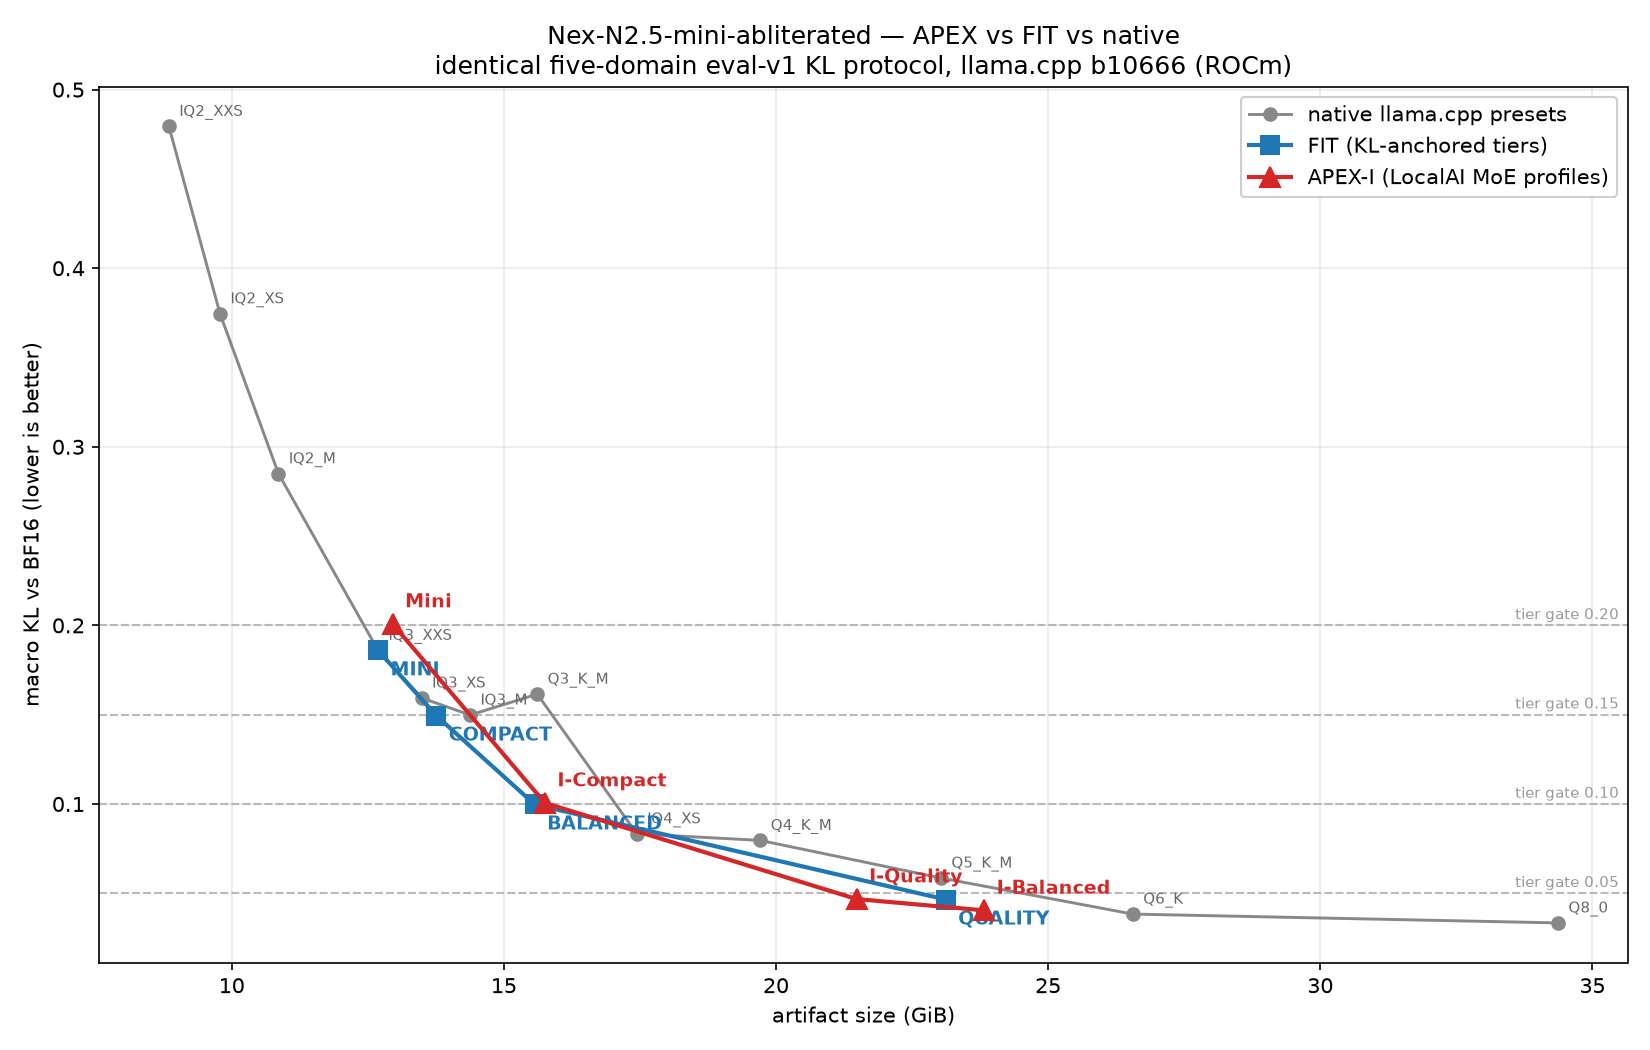
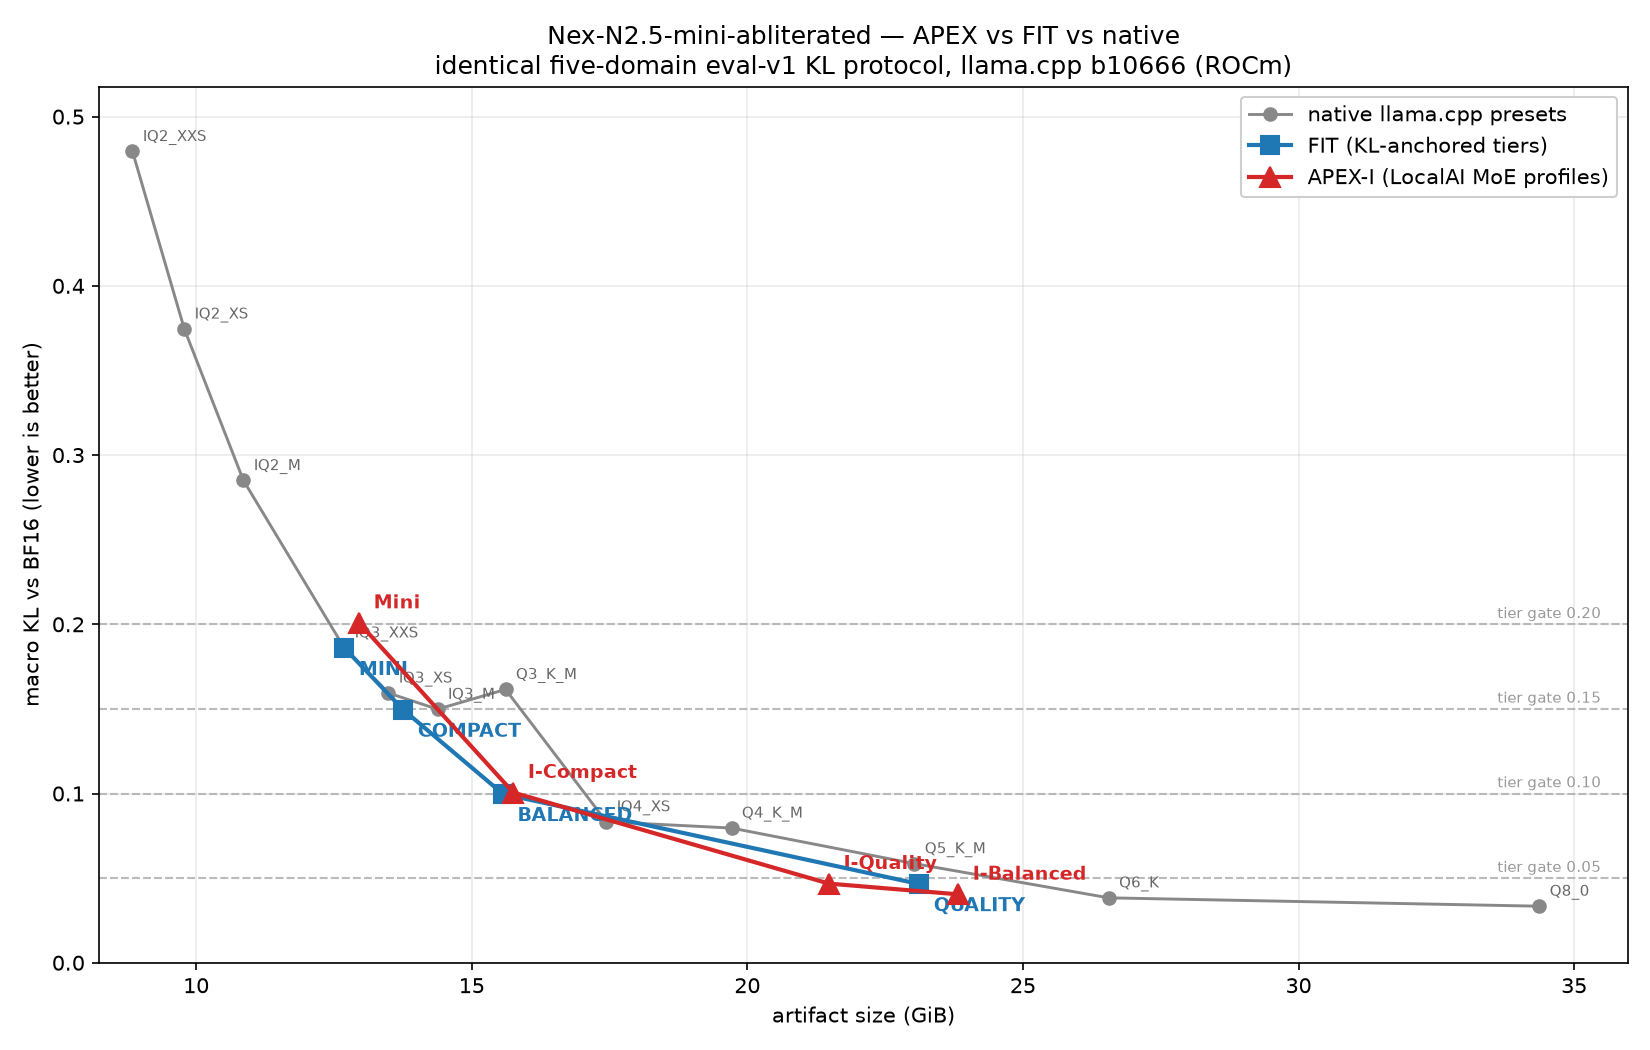
fix(chart): y-axis headroom and label offsets so APEX I-Balanced is not clipped
The lowest point (I-Balanced, macro KL 0.0404) sat on the plot edge and the
13-16 GiB labels collided. Axis limits now carry headroom on both axes and the
FIT/APEX labels are offset in opposite directions.

diff --git a/scripts/plot_apex_vs_fit.py b/scripts/plot_apex_vs_fit.py
@@ -69,7 +69,7 @@ def main() -> None:
             color="#1f77b4", ms=9, lw=2, label="FIT (KL-anchored tiers)", zorder=4)
     for x, y, name in fit:
         tier = name.split("FIT-")[1].split("-")[0]
-        ax.annotate(tier, (x, y), textcoords="offset points", xytext=(6, -12),
+        ax.annotate(tier, (x, y), textcoords="offset points", xytext=(7, -13),
                     fontsize=9, color="#1f77b4", fontweight="bold")
 
     apex.sort()
@@ -77,13 +77,20 @@ def main() -> None:
             color="#d62728", ms=10, lw=2, label="APEX-I (LocalAI MoE profiles)", zorder=5)
     for x, y, name in apex:
         tier = name.split("APEX-")[1].replace(".gguf", "")
-        ax.annotate(tier, (x, y), textcoords="offset points", xytext=(6, 8),
+        ax.annotate(tier, (x, y), textcoords="offset points", xytext=(7, 7),
                     fontsize=9, color="#d62728", fontweight="bold")
 
     for g in TIER_GATES:
         ax.axhline(g, color="#bbbbbb", lw=1, ls="--", zorder=1)
         ax.annotate(f"tier gate {g:.2f}", (ax.get_xlim()[1], g), xytext=(-4, 3),
                     textcoords="offset points", ha="right", fontsize=7, color="#999999")
+
+    # Headroom so the lowest point (APEX I-Balanced) is never clipped, and the
+    # small-size labels (FIT MINI / APEX Mini) do not collide.
+    ys = [p[1] for p in native + fit + apex]
+    ax.set_ylim(0, max(ys) * 1.08)
+    ax.set_xlim(min(p[0] for p in native + fit + apex) - 0.6,
+                max(p[0] for p in native + fit + apex) + 1.6)
 
     ax.set_xlabel("artifact size (GiB)")
     ax.set_ylabel("macro KL vs BF16 (lower is better)")
